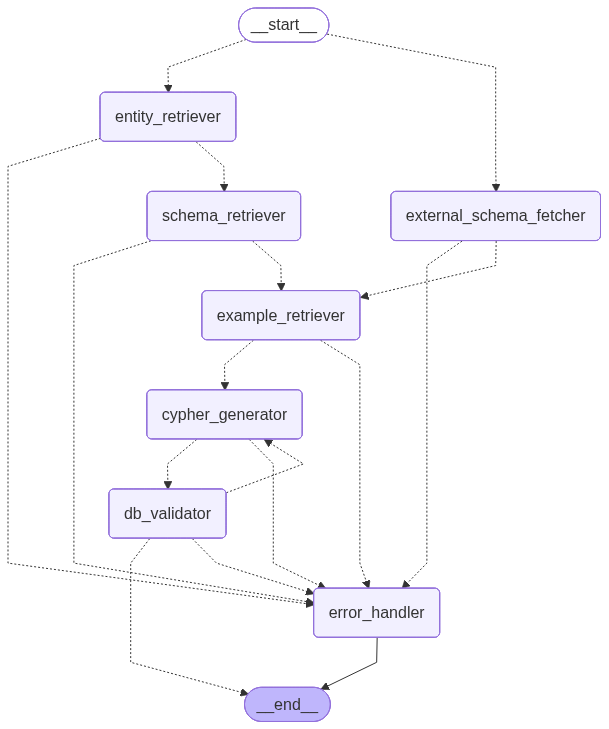
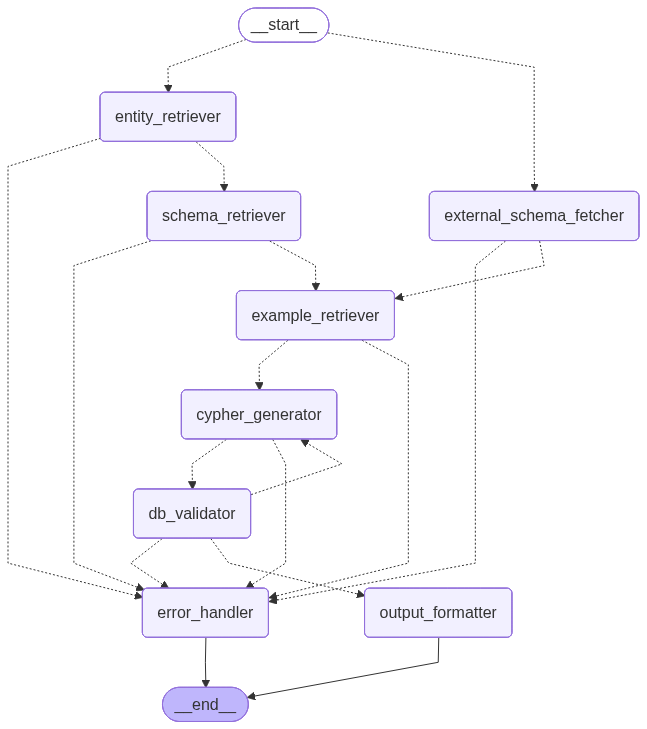
fix: owl ontology; feat: warning implementation

diff --git a/src/graph/state.py b/src/graph/state.py
@@ -50,7 +50,9 @@ class CypherTranslation(BaseModel):
     query: str | None = Field(
         description="La query Cypher finale generata, senza markdown o testo aggiuntivo"
     )
-    note: str | None = Field(description="Note sulla query prodotta.")
+    note: str | None = Field(
+        description="Nota sintetica opzionale sulla query prodotta."
+    )
     error: str | None = Field(
         description="Descrizione di un eventuale errore incontrato durante il processo di traduzione"
     )
@@ -62,13 +64,17 @@ class Attempt(BaseModel):
     generated_cypher: CypherTranslation = Field(
         description="Query cypher generata per instruction"
     )
-    db_error: str = Field(description="Errore generato dalla validazione su database")
+    db_error: str | None = Field(
+        description="Errore generato dalla validazione su database"
+    )
+    db_warnings: list[str] | None = Field(
+        description="Warning non invalidanti generati dalla validazione su databse"
+    )
 
 
 class AttemptsRecord(BaseModel):
     """Attempt list."""
 
-    instruction: str = Field(description="Testo naturale da convertire in query cypher")
     attempts: list[Attempt] = Field(
         description="Tentativi di traduzione eseguiti per instruction"
     )
@@ -79,23 +85,24 @@ class GraphState(TypedDict):
 
     instruction: str  # user input
     generated_cypher: CypherTranslation | None  # translated query
-    validated_cypher: CypherTranslation | None
+    is_valid: bool | None
+    final_warnings: list[str] | None
     final_error: str | None
+    final_note: str | None
+    attempts: AttemptsRecord
     retrieved_entities: Entities | None
     retrieved_examples: Examples | None
-    retrieved_schema: DBSchema | None
+    retrieved_schema: DBSchema | str | None
     ontology_endpoint: str | None
-    attempts: AttemptsRecord
-    is_valid: bool | None
-    retry_count: int
+    try_count: int
 
 
 def create_init_state(instruction: str, ontology_endpoint: str | None) -> GraphState:
     """Return the init state."""
-    attempts = AttemptsRecord(instruction=instruction, attempts=[])
+    attempts = AttemptsRecord(attempts=[])
     init_state = {
         "instruction": instruction,
-        "retry_count": 0,
+        "try_count": 0,
         "attempts": attempts,
         "ontology_endpoint": ontology_endpoint,
     }

diff --git a/src/graph/nodes/db_validator.py b/src/graph/nodes/db_validator.py
@@ -1,5 +1,6 @@
 from typing import LiteralString, cast
 
+from neo4j import NotificationSeverity
 from neo4j.exceptions import CypherSyntaxError, CypherTypeError, Neo4jError
 
 from src.graph.state import Attempt, AttemptsRecord, GraphState
@@ -22,26 +23,40 @@ def db_validator(state: GraphState) -> dict:
     validation_query = cast(LiteralString, f"EXPLAIN {query}")
 
     is_valid = False
-    error_message = ""
+    error_message = None
+    warnings: list[str] | None = None
 
     with driver.session() as session:
         try:
-            session.execute_read(lambda tx: tx.run(validation_query).consume())
+            result = session.execute_read(lambda tx: tx.run(validation_query).consume())
+
+            # retrieve generated warnings
+            for stat in result.gql_status_objects:
+                if stat.severity == NotificationSeverity.WARNING:
+                    warnings = warnings or []
+                    warnings.append(stat.status_description)
+
             is_valid = True
 
         except (CypherSyntaxError, CypherTypeError, Neo4jError) as e:
             error_message = e.message
             is_valid = False
 
-    attempt = Attempt(generated_cypher=last_generated_cypher, db_error=error_message)
+    attempt = Attempt(
+        generated_cypher=last_generated_cypher,
+        db_error=error_message,
+        db_warnings=warnings,
+    )
 
     attempts_record.attempts.append(attempt)
 
     # if an error occurred to the last generated query, make another attempt anyway
     if last_generated_cypher.error is not None:
         is_valid = False
+
+    if warnings is not None:
+        is_valid = False
+
     state_update = {"is_valid": is_valid, "attempts": attempts_record}
-    if is_valid:
-        state_update["validated_cypher"] = last_generated_cypher
 
     return state_update

diff --git a/src/graph/nodes/output_node.py b/src/graph/nodes/output_node.py
@@ -1,0 +1,22 @@
+from graph.nodes.router import MAX_ATTEMPTS
+from graph.state import GraphState
+
+
+def output_formatter(state: GraphState) -> dict:
+    """Fill empty field of the final state."""
+    last_attempt = state["attempts"].attempts.pop()
+
+    try_count = state.get("try_count", 0)
+    if try_count > MAX_ATTEMPTS:
+        try_count = MAX_ATTEMPTS
+
+    state_update = {}
+    if last_attempt:
+        state_update = {
+            "final_warnings": last_attempt.db_warnings,
+            "final_error": last_attempt.db_error,
+            "final_note": last_attempt.generated_cypher.note,
+            "try_count": try_count,
+        }
+
+    return state_update

diff --git a/src/graph/nodes/router.py b/src/graph/nodes/router.py
@@ -1,18 +1,16 @@
-from langgraph.constants import END
+import os
 
 from src.graph.state import GraphState
 
-MAX_ATTEMPTS = 3
+MAX_ATTEMPTS = int(os.environ.get("MAX_ATTEMPTS", "3"))
 
 
 def validator_router(state: GraphState) -> str:
     """Router after db validation."""
     if state.get("final_error") is not None:
         return "error_handler"
-    elif state["is_valid"]:
-        return END
-    elif state["retry_count"] >= MAX_ATTEMPTS:
-        return "error_handler"
+    elif state["try_count"] > MAX_ATTEMPTS or state["is_valid"]:
+        return "output_formatter"
     else:
         return "cypher_generator"
 

diff --git a/src/graph/graph.py b/src/graph/graph.py
@@ -12,6 +12,7 @@ from langgraph.graph import StateGraph
 from langgraph.graph.state import CompiledStateGraph
 from typing_extensions import TypedDict
 
+from graph.nodes.output_node import output_formatter
 from src.graph.nodes.cypher_generator import cypher_generator
 from src.graph.nodes.db_validator import db_validator
 from src.graph.nodes.entity_retriever import entity_retriever
@@ -39,7 +40,8 @@ def build_graph() -> CompiledStateGraph[GraphState, Any]:
     builder.add_node("example_retriever", node_wrapper(example_retriever))
     builder.add_node("cypher_generator", node_wrapper(cypher_generator))
     builder.add_node("db_validator", node_wrapper(db_validator))
-    builder.add_node("error_handler", error_handler)
+    builder.add_node("error_handler", node_wrapper(error_handler))
+    builder.add_node("output_formatter", node_wrapper(output_formatter))
 
     builder.add_conditional_edges(
         START, schema_router, ["external_schema_fetcher", "entity_retriever"]
@@ -70,7 +72,10 @@ def build_graph() -> CompiledStateGraph[GraphState, Any]:
         ["db_validator", "error_handler"],
     )
     builder.add_conditional_edges(
-        "db_validator", validator_router, [END, "error_handler", "cypher_generator"]
+        "db_validator",
+        validator_router,
+        ["output_formatter", "error_handler", "cypher_generator"],
     )
+    builder.add_edge("output_formatter", END)
 
     return builder.compile(name="ttc-graph")

diff --git a/main.py b/main.py
@@ -27,8 +27,11 @@ def main():
 
     query = final_state.get("generated_cypher", "")
     error = final_state.get("final_error", "")
-    try_count = final_state.get("retry_count", "")
-    logger.info(f"\n{query}\nError: {error}\nTry: {try_count}")
+    try_count = final_state.get("try_count", "")
+    warnings = final_state.get("final_warnings")
+    logger.info(
+        f"\nQuery: {query.query}\nFinal note: {query.note}\nFinal error: {error}\nFinal warning: {warnings}\nTry: {try_count}"
+    )
     # generate graph png image
     png_data = graph.get_graph().draw_mermaid_png()
     with open("grafo.png", "wb") as f:

diff --git a/src/graph/nodes/schema_retriever.py b/src/graph/nodes/schema_retriever.py
@@ -1,7 +1,10 @@
 import json
+import os
 
 from src.graph.state import DBEntity, DBSchema, GraphState
 from utils.vector_stores import get_schema_store
+
+SCHEMA_K_VALUE = int(os.environ.get("SCHEMA_K_VALUE", "2"))
 
 
 def schema_retriever(state: GraphState) -> dict:
@@ -17,11 +20,11 @@ def schema_retriever(state: GraphState) -> dict:
     chunks: dict[str, DBEntity] = {}
 
     for entity in entities:
-        result = vectorstore.similarity_search(entity, k=2)
+        result = vectorstore.similarity_search(entity, k=SCHEMA_K_VALUE)
         for doc in result:
             ent = doc.metadata.get("entity", "")
             chunks[ent] = DBEntity(
-                name=doc.metadata.get("entity", ""),
+                name=ent,
                 properties=json.loads(doc.metadata.get("properties", "[]")),
                 relations=json.loads(doc.metadata.get("relations", "[]")),
             )

diff --git a/src/graph/nodes/external_schema_fetcher.py b/src/graph/nodes/external_schema_fetcher.py
@@ -15,6 +15,8 @@ def external_schema_fetcher(state: GraphState) -> dict:
     response = requests.get(endpoint, headers={"accept": "application/json"})
     response.raise_for_status()
 
-    schema = parse_owl_to_entities(response.text)
+    # schema = parse_owl_to_entities(response.text)
+    # return {"retrieved_schema": DBSchema(db_schema=schema)}
 
-    return {"retrieved_schema": DBSchema(db_schema=schema)}
+    schema = response.text
+    return {"retrieved_schema": schema}

diff --git a/src/graph/nodes/example_retriever.py b/src/graph/nodes/example_retriever.py
@@ -1,6 +1,9 @@
+import os
 
 from src.graph.state import Examples, GraphState, QueryExample
 from utils.vector_stores import get_examples_store
+
+EXAMPLE_K_VALUE = int(os.environ.get("EXAMPLE_K_VALUE", "5"))
 
 
 def example_retriever(state: GraphState) -> dict:
@@ -8,7 +11,7 @@ def example_retriever(state: GraphState) -> dict:
     vectorstore = get_examples_store()
 
     instruction = state["instruction"]
-    result = vectorstore.similarity_search(instruction, k=5)
+    result = vectorstore.similarity_search(instruction, k=EXAMPLE_K_VALUE)
 
     examples: list[QueryExample] = []
     for doc in result:

diff --git a/src/agents/translator_agent.py b/src/agents/translator_agent.py
@@ -22,7 +22,7 @@ class TranslateRequest(BaseModel):
 
     instruction: str
     retrieved_examples: Examples
-    retrieved_schema: DBSchema
+    retrieved_schema: DBSchema | str
     attempts: AttemptsRecord
     lang_syntax: str | None
 

diff --git a/src/graph/nodes/cypher_generator.py b/src/graph/nodes/cypher_generator.py
@@ -24,4 +24,4 @@ def cypher_generator(state: GraphState) -> dict:
     )
 
     response: CypherTranslation = agent.translate(translate_request)
-    return {"generated_cypher": response, "retry_count": state["retry_count"] + 1}
+    return {"generated_cypher": response, "try_count": state["try_count"] + 1}

diff --git a/src/utils/create_schema_db.py b/src/utils/create_schema_db.py
@@ -36,7 +36,7 @@ vectorstore = Chroma.from_texts(
     texts=testi,
     metadatas=metadati,
     embedding=embeddings,
-    persist_directory="./onthology_db",  # Scegli il nome della cartella
+    persist_directory="./ontology_db",  # Scegli il nome della cartella
 )
 
 print("Database vettoriale creato e salvato con successo!")